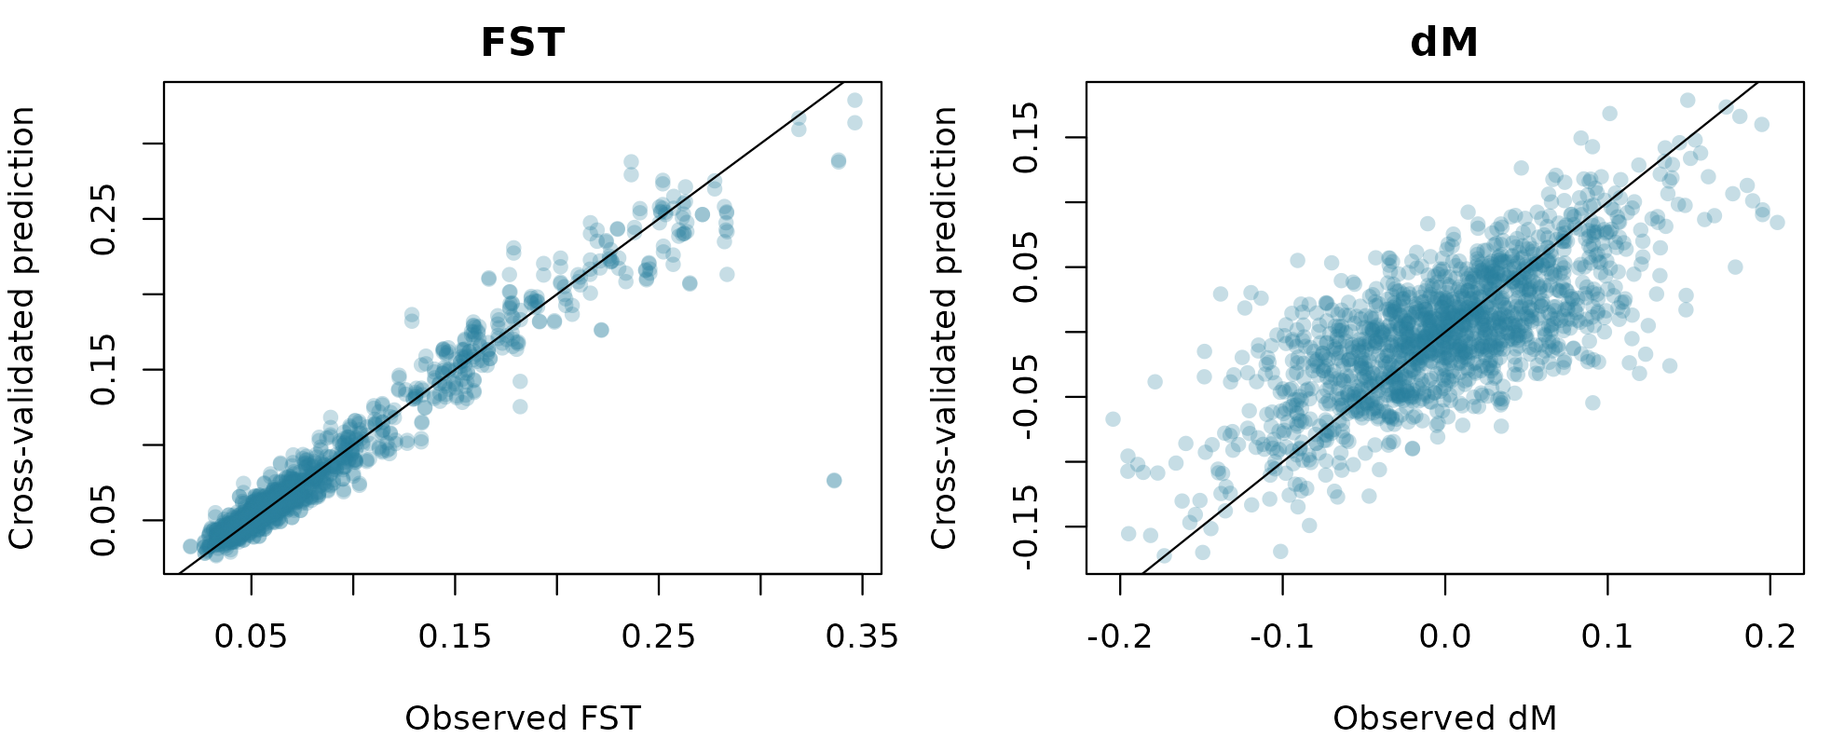
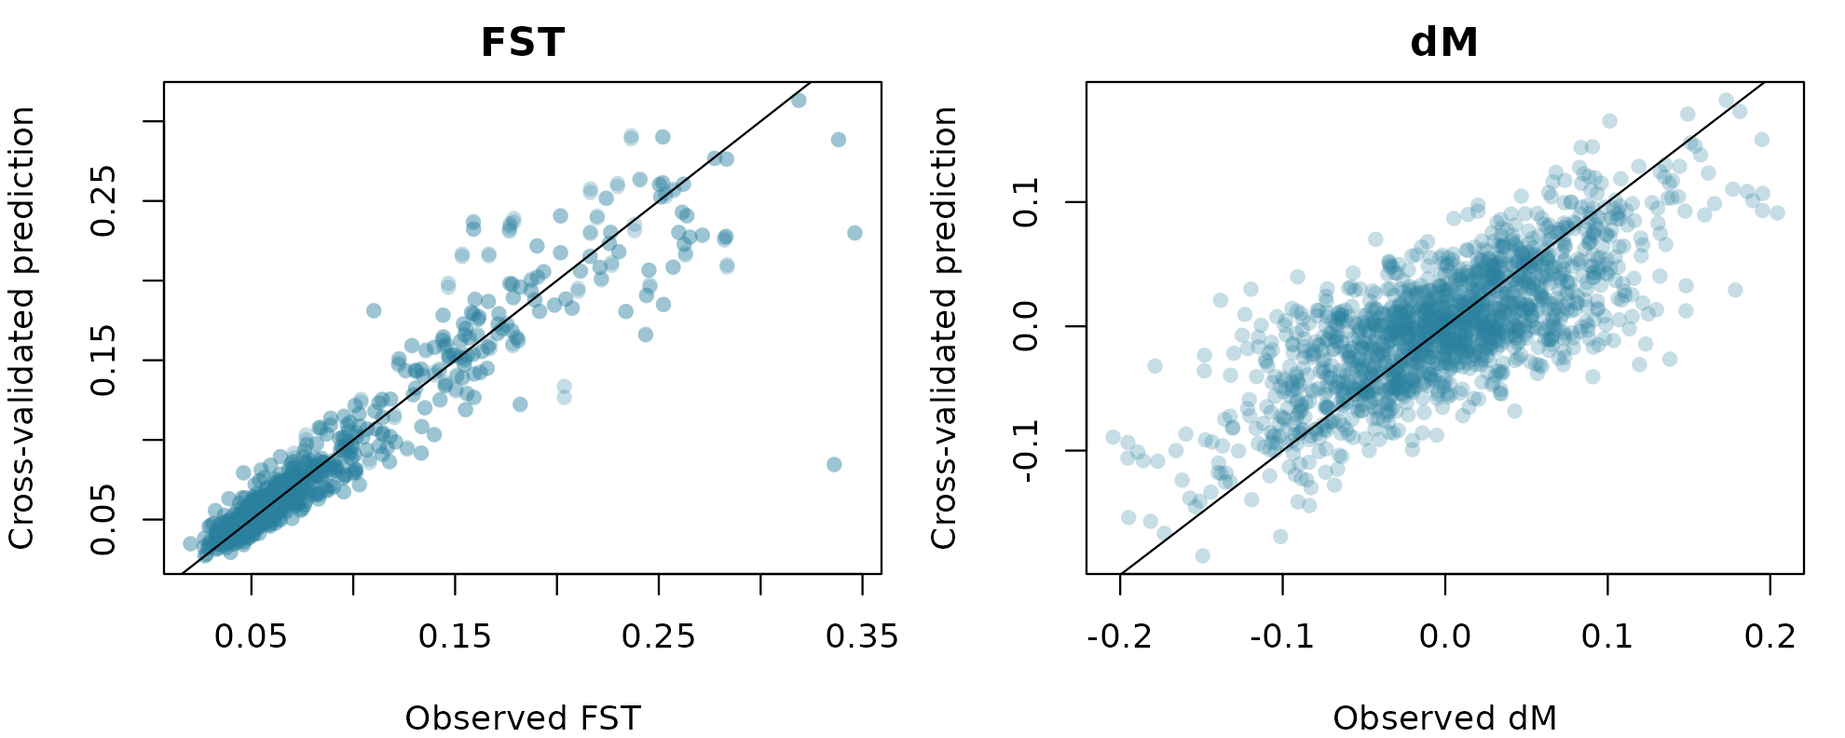
Deploying to gh-pages from @ paulmaier/corridoR@a5872bb9ea24ba461de3bca474ab5d63a413450c 🚀

diff --git a/articles/tutorial.html b/articles/tutorial.html
@@ -344,12 +344,12 @@ features by importance, and refits.</p>
 <span><span class="va">m_dm</span> <span class="op">&lt;-</span> <span class="fu"><a href="../reference/fit_connectivity.html">fit_connectivity</a></span><span class="op">(</span><span class="va">now</span>, <span class="va">y</span><span class="op">$</span><span class="va">dM</span>, <span class="va">model_groups</span>, committees <span class="op">=</span> <span class="fu"><a href="https://rdrr.io/r/base/c.html" class="external-link">c</a></span><span class="op">(</span><span class="fl">1</span>, <span class="fl">10</span>, <span class="fl">50</span><span class="op">)</span>, neighbors <span class="op">=</span> <span class="fu"><a href="https://rdrr.io/r/base/c.html" class="external-link">c</a></span><span class="op">(</span><span class="fl">0</span>, <span class="fl">5</span><span class="op">)</span><span class="op">)</span></span>
 <span><span class="va">m_fst</span></span>
 <span><span class="co">#&gt; &lt;corridor_model&gt; Cubist, 50 committees, 5 neighbors</span></span>
-<span><span class="co">#&gt;   12 features after PCA and VIF filtering; CV RMSE 0.01421, R2 0.940</span></span>
+<span><span class="co">#&gt;   12 features after PCA and VIF filtering; CV RMSE 0.01811, R2 0.902</span></span>
 <span><span class="co">#&gt;   most important: climate_PC2 (100), climate_PC1 (94), path_length (68), slope (66), climate_PC3 (52)</span></span>
 <span><span class="va">m_dm</span></span>
-<span><span class="co">#&gt; &lt;corridor_model&gt; Cubist, 50 committees, 5 neighbors</span></span>
-<span><span class="co">#&gt;   12 features after PCA and VIF filtering; CV RMSE 0.04393, R2 0.521</span></span>
-<span><span class="co">#&gt;   most important: moisture.at (100), climate.at_PC2 (67), forest.at (50), climate.at_PC3 (42), climate_PC2 (41)</span></span></code></pre></div>
+<span><span class="co">#&gt; &lt;corridor_model&gt; Cubist, 10 committees, 5 neighbors</span></span>
+<span><span class="co">#&gt;   12 features after PCA and VIF filtering; CV RMSE 0.04336, R2 0.532</span></span>
+<span><span class="co">#&gt;   most important: moisture.at (100), climate.at_PC2 (76), climate_PC2 (59), climate.at_PC1 (57), forest.at (55)</span></span></code></pre></div>
 <div class="sourceCode" id="cb16"><pre class="downlit sourceCode r">
 <code class="sourceCode R"><span><span class="va">op</span> <span class="op">&lt;-</span> <span class="fu"><a href="https://rdrr.io/r/graphics/par.html" class="external-link">par</a></span><span class="op">(</span>mfrow <span class="op">=</span> <span class="fu"><a href="https://rdrr.io/r/base/c.html" class="external-link">c</a></span><span class="op">(</span><span class="fl">1</span>, <span class="fl">2</span><span class="op">)</span>, mar <span class="op">=</span> <span class="fu"><a href="https://rdrr.io/r/base/c.html" class="external-link">c</a></span><span class="op">(</span><span class="fl">4</span>, <span class="fl">4</span>, <span class="fl">2</span>, <span class="fl">1</span><span class="op">)</span><span class="op">)</span></span>
 <span><span class="fu"><a href="https://rspatial.github.io/terra/reference/plot.html" class="external-link">plot</a></span><span class="op">(</span><span class="va">m_fst</span><span class="op">$</span><span class="va">observed</span>, <span class="va">m_fst</span><span class="op">$</span><span class="va">cv_pred</span>, pch <span class="op">=</span> <span class="fl">16</span>, col <span class="op">=</span> <span class="st">"#2a7f9e44"</span>, xlab <span class="op">=</span> <span class="st">"Observed FST"</span>,</span>
@@ -382,12 +382,12 @@ PCA loadings and predicts each pair now and under warming.</p>
 <span>                     dM <span class="op">=</span> <span class="fu"><a href="https://rspatial.github.io/terra/reference/predict.html" class="external-link">predict</a></span><span class="op">(</span><span class="va">m_dm</span>, <span class="va">future</span><span class="op">)</span> <span class="op">-</span> <span class="fu"><a href="https://rspatial.github.io/terra/reference/predict.html" class="external-link">predict</a></span><span class="op">(</span><span class="va">m_dm</span>, <span class="va">now</span><span class="op">)</span><span class="op">)</span></span>
 <span><span class="fu"><a href="https://rspatial.github.io/terra/reference/summary.html" class="external-link">summary</a></span><span class="op">(</span><span class="va">change</span><span class="op">[</span>, <span class="fu"><a href="https://rdrr.io/r/base/c.html" class="external-link">c</a></span><span class="op">(</span><span class="st">"fst"</span>, <span class="st">"dM"</span><span class="op">)</span><span class="op">]</span><span class="op">)</span></span>
 <span><span class="co">#&gt;       fst                  dM            </span></span>
-<span><span class="co">#&gt;  Min.   :-0.224821   Min.   :-3.781e-01  </span></span>
-<span><span class="co">#&gt;  1st Qu.:-0.008467   1st Qu.:-4.532e-02  </span></span>
-<span><span class="co">#&gt;  Median : 0.031226   Median : 7.864e-05  </span></span>
-<span><span class="co">#&gt;  Mean   : 0.024150   Mean   :-1.032e-04  </span></span>
-<span><span class="co">#&gt;  3rd Qu.: 0.054055   3rd Qu.: 4.481e-02  </span></span>
-<span><span class="co">#&gt;  Max.   : 0.216369   Max.   : 3.611e-01</span></span></code></pre></div>
+<span><span class="co">#&gt;  Min.   :-0.224821   Min.   :-0.3607034  </span></span>
+<span><span class="co">#&gt;  1st Qu.:-0.008467   1st Qu.:-0.0462446  </span></span>
+<span><span class="co">#&gt;  Median : 0.031226   Median : 0.0003446  </span></span>
+<span><span class="co">#&gt;  Mean   : 0.024150   Mean   : 0.0030933  </span></span>
+<span><span class="co">#&gt;  3rd Qu.: 0.054055   3rd Qu.: 0.0455147  </span></span>
+<span><span class="co">#&gt;  Max.   : 0.216369   Max.   : 0.4056813</span></span></code></pre></div>
 <p><code><a href="../reference/map_pairwise.html">map_pairwise()</a></code> spreads each pair’s change over its
 corridor and averages overlapping corridors. For dM it also sums
 direction vectors, each pointing from source to destination and weighted
@@ -454,9 +454,8 @@ need time rather than memory.</li>
 Landscape genetics of a sub-alpine toad: climate change predicted to
 induce upward range shifts via asymmetrical migration corridors.
 <em>Heredity</em> 129:257-272. <a href="https://doi.org/10.1038/s41437-022-00561-x" class="external-link uri">https://doi.org/10.1038/s41437-022-00561-x</a></p>
-<p>Maier PA (2027) corridoR: Migration corridors and genetic range
-shifts from landscape genetic data. <em>Journal of Open Source
-Software</em> (in preparation).</p>
+<p>Maier PA (2027) corridoR: an R package for forecasting genetic range
+shifts along migration corridors. Manuscript in preparation.</p>
 </div>
 <div class="section level2">
 <h2 id="other-references">Other references<a class="anchor" aria-label="anchor" href="#other-references"></a>

diff --git a/reference/select_bandwidth.html b/reference/select_bandwidth.html
@@ -91,7 +91,8 @@ columns <code>from</code>, <code>to</code> and the features, as returned by
 
 
 <dt id="arg-folds">folds<a class="anchor" aria-label="anchor" href="#arg-folds"></a></dt>
-<dd><p>Number of cross-validation folds.</p></dd>
+<dd><p>Number of cross-validation folds. Both directions of a pair
+(rows A to B and B to A) always fall in the same fold.</p></dd>
 
 
 <dt id="arg-num-trees">num.trees<a class="anchor" aria-label="anchor" href="#arg-num-trees"></a></dt>
@@ -121,8 +122,9 @@ group.</p>
 <span class="r-in"><span><span class="co"># the response better</span></span></span>
 <span class="r-in"><span><span class="fu"><a href="https://rdrr.io/r/base/Random.html" class="external-link">set.seed</a></span><span class="op">(</span><span class="fl">1</span><span class="op">)</span></span></span>
 <span class="r-in"><span><span class="va">n</span> <span class="op">&lt;-</span> <span class="fl">150</span></span></span>
-<span class="r-in"><span><span class="va">wide</span> <span class="op">&lt;-</span> <span class="fu"><a href="https://rdrr.io/r/base/data.frame.html" class="external-link">data.frame</a></span><span class="op">(</span>from <span class="op">=</span> <span class="st">"a"</span>, to <span class="op">=</span> <span class="st">"b"</span>, snow <span class="op">=</span> <span class="fu"><a href="https://rdrr.io/r/stats/Normal.html" class="external-link">rnorm</a></span><span class="op">(</span><span class="va">n</span><span class="op">)</span>, slope <span class="op">=</span> <span class="fu"><a href="https://rdrr.io/r/stats/Normal.html" class="external-link">rnorm</a></span><span class="op">(</span><span class="va">n</span><span class="op">)</span><span class="op">)</span></span></span>
-<span class="r-in"><span><span class="va">narrow</span> <span class="op">&lt;-</span> <span class="fu"><a href="https://rdrr.io/r/base/data.frame.html" class="external-link">data.frame</a></span><span class="op">(</span>from <span class="op">=</span> <span class="st">"a"</span>, to <span class="op">=</span> <span class="st">"b"</span>, snow <span class="op">=</span> <span class="va">wide</span><span class="op">$</span><span class="va">snow</span> <span class="op">+</span> <span class="fu"><a href="https://rdrr.io/r/stats/Normal.html" class="external-link">rnorm</a></span><span class="op">(</span><span class="va">n</span><span class="op">)</span>, slope <span class="op">=</span> <span class="fu"><a href="https://rdrr.io/r/stats/Normal.html" class="external-link">rnorm</a></span><span class="op">(</span><span class="va">n</span><span class="op">)</span><span class="op">)</span></span></span>
+<span class="r-in"><span><span class="va">ids</span> <span class="op">&lt;-</span> <span class="fu"><a href="https://rdrr.io/r/base/data.frame.html" class="external-link">data.frame</a></span><span class="op">(</span>from <span class="op">=</span> <span class="fu"><a href="https://rdrr.io/r/base/paste.html" class="external-link">paste0</a></span><span class="op">(</span><span class="st">"s"</span>, <span class="fl">1</span><span class="op">:</span><span class="va">n</span><span class="op">)</span>, to <span class="op">=</span> <span class="fu"><a href="https://rdrr.io/r/base/paste.html" class="external-link">paste0</a></span><span class="op">(</span><span class="st">"t"</span>, <span class="fl">1</span><span class="op">:</span><span class="va">n</span><span class="op">)</span><span class="op">)</span></span></span>
+<span class="r-in"><span><span class="va">wide</span> <span class="op">&lt;-</span> <span class="fu"><a href="https://rdrr.io/r/base/data.frame.html" class="external-link">data.frame</a></span><span class="op">(</span><span class="va">ids</span>, snow <span class="op">=</span> <span class="fu"><a href="https://rdrr.io/r/stats/Normal.html" class="external-link">rnorm</a></span><span class="op">(</span><span class="va">n</span><span class="op">)</span>, slope <span class="op">=</span> <span class="fu"><a href="https://rdrr.io/r/stats/Normal.html" class="external-link">rnorm</a></span><span class="op">(</span><span class="va">n</span><span class="op">)</span><span class="op">)</span></span></span>
+<span class="r-in"><span><span class="va">narrow</span> <span class="op">&lt;-</span> <span class="fu"><a href="https://rdrr.io/r/base/data.frame.html" class="external-link">data.frame</a></span><span class="op">(</span><span class="va">ids</span>, snow <span class="op">=</span> <span class="va">wide</span><span class="op">$</span><span class="va">snow</span> <span class="op">+</span> <span class="fu"><a href="https://rdrr.io/r/stats/Normal.html" class="external-link">rnorm</a></span><span class="op">(</span><span class="va">n</span><span class="op">)</span>, slope <span class="op">=</span> <span class="fu"><a href="https://rdrr.io/r/stats/Normal.html" class="external-link">rnorm</a></span><span class="op">(</span><span class="va">n</span><span class="op">)</span><span class="op">)</span></span></span>
 <span class="r-in"><span><span class="va">fst</span> <span class="op">&lt;-</span> <span class="fl">0.1</span> <span class="op">-</span> <span class="fl">0.03</span> <span class="op">*</span> <span class="va">wide</span><span class="op">$</span><span class="va">snow</span> <span class="op">+</span> <span class="fu"><a href="https://rdrr.io/r/stats/Normal.html" class="external-link">rnorm</a></span><span class="op">(</span><span class="va">n</span>, sd <span class="op">=</span> <span class="fl">0.01</span><span class="op">)</span></span></span>
 <span class="r-in"><span><span class="va">sel</span> <span class="op">&lt;-</span> <span class="fu">select_bandwidth</span><span class="op">(</span><span class="fu"><a href="https://rdrr.io/r/base/list.html" class="external-link">list</a></span><span class="op">(</span>narrow <span class="op">=</span> <span class="va">narrow</span>, wide <span class="op">=</span> <span class="va">wide</span><span class="op">)</span>, <span class="va">fst</span>,</span></span>
 <span class="r-in"><span>                        groups <span class="op">=</span> <span class="fu"><a href="https://rdrr.io/r/base/list.html" class="external-link">list</a></span><span class="op">(</span>climate <span class="op">=</span> <span class="st">"snow"</span>, terrain <span class="op">=</span> <span class="st">"slope"</span><span class="op">)</span>,</span></span>

diff --git a/articles/corridoR.html b/articles/corridoR.html
@@ -125,7 +125,7 @@ the lineage effect added. Then a Cubist model of dM:</p>
 <span><span class="va">m</span> <span class="op">&lt;-</span> <span class="fu"><a href="../reference/fit_connectivity.html">fit_connectivity</a></span><span class="op">(</span><span class="va">now</span>, <span class="va">y</span>, <span class="va">groups</span>, committees <span class="op">=</span> <span class="fu"><a href="https://rdrr.io/r/base/c.html" class="external-link">c</a></span><span class="op">(</span><span class="fl">1</span>, <span class="fl">20</span><span class="op">)</span>, neighbors <span class="op">=</span> <span class="fu"><a href="https://rdrr.io/r/base/c.html" class="external-link">c</a></span><span class="op">(</span><span class="fl">0</span>, <span class="fl">5</span><span class="op">)</span>, folds <span class="op">=</span> <span class="fl">5</span><span class="op">)</span></span>
 <span><span class="va">m</span></span>
 <span><span class="co">#&gt; &lt;corridor_model&gt; Cubist, 20 committees, 5 neighbors</span></span>
-<span><span class="co">#&gt;   14 features after PCA and VIF filtering; CV RMSE 0.04485, R2 0.483</span></span>
+<span><span class="co">#&gt;   14 features after PCA and VIF filtering; CV RMSE 0.04485, R2 0.485</span></span>
 <span><span class="co">#&gt;   most important: moisture.at (100), climate.at_PC2 (72), climate.at_PC1 (71), climate.at_PC3 (42), moisture (39)</span></span></code></pre></div>
 <p><strong>6. Forecast.</strong> Predict under warming and map the
 change onto the corridors:</p>
@@ -147,9 +147,8 @@ nearby pairs this version is coarser than the full tutorial.</p>
 Landscape genetics of a sub-alpine toad: climate change predicted to
 induce upward range shifts via asymmetrical migration corridors.
 <em>Heredity</em> 129:257-272. <a href="https://doi.org/10.1038/s41437-022-00561-x" class="external-link uri">https://doi.org/10.1038/s41437-022-00561-x</a></p>
-<p>Maier PA (2027) corridoR: Migration corridors and genetic range
-shifts from landscape genetic data. <em>Journal of Open Source
-Software</em> (in preparation).</p>
+<p>Maier PA (2027) corridoR: an R package for forecasting genetic range
+shifts along migration corridors. Manuscript in preparation.</p>
 </div>
   </main>
 </div>

diff --git a/news/index.html b/news/index.html
@@ -39,7 +39,9 @@
 
     <div class="section level2">
 <h2 class="pkg-version" data-toc-text="development version" id="corridor-development-version">corridoR (development version)<a class="anchor" aria-label="anchor" href="#corridor-development-version"></a></h2>
-</div>
+<ul><li>
+<code><a href="../reference/fit_connectivity.html">fit_connectivity()</a></code> and <code><a href="../reference/select_bandwidth.html">select_bandwidth()</a></code> now keep both directions of a pair (A to B and B to A) in the same cross-validation fold. Before, a pair could be predicted from its own reverse, which inflated cross-validated R2 and could favor overfit settings.</li>
+</ul></div>
     <div class="section level2">
 <h2 class="pkg-version" data-toc-text="0.1.0" id="corridor-010">corridoR 0.1.0<a class="anchor" aria-label="anchor" href="#corridor-010"></a></h2>
 <ul><li>First release: genotype readers (STRUCTURE, GENEPOP, VCF, GenAlEx, FSTAT, PLINK, adegenet and vcfR objects), pairwise FST and directional GST, least cost paths and corridors, weighted environmental extraction, per-group bandwidth selection, Cubist models of connectivity, and maps of projected change in magnitude and net direction. Includes a simulated example landscape.</li>

diff --git a/authors.html b/authors.html
@@ -59,13 +59,12 @@
   pages = {257--272},
   doi = {10.1038/s41437-022-00561-x},
 }</pre>
-      <p>Maier PA (2027) corridoR: Migration corridors and genetic range shifts from landscape genetic data. Journal of Open Source Software (in preparation).</p>
-      <pre>@Article{,
-  title = {corridoR: Migration corridors and genetic range shifts from landscape genetic data},
+      <p>Maier PA (2027) corridoR: an R package for forecasting genetic range shifts along migration corridors. Manuscript in preparation.</p>
+      <pre>@Unpublished{,
+  title = {corridoR: an R package for forecasting genetic range shifts along migration corridors},
   author = {Paul A. Maier},
-  journal = {Journal of Open Source Software},
   year = {2027},
-  note = {In preparation. The volume, pages and DOI will be added here on publication.},
+  note = {Manuscript in preparation. The journal, volume, pages and DOI will be added here on publication.},
 }</pre>
     </div>
 

diff --git a/index.html b/index.html
@@ -168,7 +168,7 @@
 <p>Maier PA, Vandergast AG, Ostoja SM, Aguilar A, Bohonak AJ (2022) Landscape genetics of a sub-alpine toad: climate change predicted to induce upward range shifts via asymmetrical migration corridors. <em>Heredity</em> 129:257-272. <a href="https://doi.org/10.1038/s41437-022-00561-x" class="external-link uri">https://doi.org/10.1038/s41437-022-00561-x</a></p>
 </blockquote>
 <blockquote>
-<p>Maier PA (2027) corridoR: Migration corridors and genetic range shifts from landscape genetic data. <em>Journal of Open Source Software</em> (in preparation).</p>
+<p>Maier PA (2027) corridoR: an R package for forecasting genetic range shifts along migration corridors. Manuscript in preparation.</p>
 </blockquote>
 <p>The first introduced the method; the second describes the package. <code>citation("corridoR")</code> prints both.</p>
 </div>

diff --git a/reference/fit_connectivity.html b/reference/fit_connectivity.html
@@ -100,7 +100,9 @@ as they are and always kept.</p></dd>
 
 
 <dt id="arg-folds">folds<a class="anchor" aria-label="anchor" href="#arg-folds"></a></dt>
-<dd><p>Number of cross-validation folds.</p></dd>
+<dd><p>Number of cross-validation folds. When <code>data</code> has <code>from</code> and
+<code>to</code> columns, both directions of a pair always fall in the same fold, so
+a pair is never used to predict its own reverse.</p></dd>
 
 
 <dt id="arg-vif-threshold">vif_threshold<a class="anchor" aria-label="anchor" href="#arg-vif-threshold"></a></dt>

diff --git a/articles/tutorial.md b/articles/tutorial.md
@@ -336,12 +336,12 @@ m_fst <- fit_connectivity(now, y$fst, model_groups, committees = c(1, 10, 50), n
 m_dm <- fit_connectivity(now, y$dM, model_groups, committees = c(1, 10, 50), neighbors = c(0, 5))
 m_fst
 #> <corridor_model> Cubist, 50 committees, 5 neighbors
-#>   12 features after PCA and VIF filtering; CV RMSE 0.01421, R2 0.940
+#>   12 features after PCA and VIF filtering; CV RMSE 0.01811, R2 0.902
 #>   most important: climate_PC2 (100), climate_PC1 (94), path_length (68), slope (66), climate_PC3 (52)
 m_dm
-#> <corridor_model> Cubist, 50 committees, 5 neighbors
-#>   12 features after PCA and VIF filtering; CV RMSE 0.04393, R2 0.521
-#>   most important: moisture.at (100), climate.at_PC2 (67), forest.at (50), climate.at_PC3 (42), climate_PC2 (41)
+#> <corridor_model> Cubist, 10 committees, 5 neighbors
+#>   12 features after PCA and VIF filtering; CV RMSE 0.04336, R2 0.532
+#>   most important: moisture.at (100), climate.at_PC2 (76), climate_PC2 (59), climate.at_PC1 (57), forest.at (55)
 ```
 
 ``` r
@@ -392,12 +392,12 @@ change <- data.frame(from = now$from, to = now$to,
                      dM = predict(m_dm, future) - predict(m_dm, now))
 summary(change[, c("fst", "dM")])
 #>       fst                  dM            
-#>  Min.   :-0.224821   Min.   :-3.781e-01  
-#>  1st Qu.:-0.008467   1st Qu.:-4.532e-02  
-#>  Median : 0.031226   Median : 7.864e-05  
-#>  Mean   : 0.024150   Mean   :-1.032e-04  
-#>  3rd Qu.: 0.054055   3rd Qu.: 4.481e-02  
-#>  Max.   : 0.216369   Max.   : 3.611e-01
+#>  Min.   :-0.224821   Min.   :-0.3607034  
+#>  1st Qu.:-0.008467   1st Qu.:-0.0462446  
+#>  Median : 0.031226   Median : 0.0003446  
+#>  Mean   : 0.024150   Mean   : 0.0030933  
+#>  3rd Qu.: 0.054055   3rd Qu.: 0.0455147  
+#>  Max.   : 0.216369   Max.   : 0.4056813
 ```
 
 [`map_pairwise()`](https://paulmaier.github.io/corridoR/reference/map_pairwise.md)
@@ -472,9 +472,8 @@ Landscape genetics of a sub-alpine toad: climate change predicted to
 induce upward range shifts via asymmetrical migration corridors.
 *Heredity* 129:257-272. <https://doi.org/10.1038/s41437-022-00561-x>
 
-Maier PA (2027) corridoR: Migration corridors and genetic range shifts
-from landscape genetic data. *Journal of Open Source Software* (in
-preparation).
+Maier PA (2027) corridoR: an R package for forecasting genetic range
+shifts along migration corridors. Manuscript in preparation.
 
 ## Other references
 

diff --git a/articles/corridoR.md b/articles/corridoR.md
@@ -77,7 +77,7 @@ groups <- list(climate = c("snowpack", "runoff", "summer_temp"),
 m <- fit_connectivity(now, y, groups, committees = c(1, 20), neighbors = c(0, 5), folds = 5)
 m
 #> <corridor_model> Cubist, 20 committees, 5 neighbors
-#>   14 features after PCA and VIF filtering; CV RMSE 0.04485, R2 0.483
+#>   14 features after PCA and VIF filtering; CV RMSE 0.04485, R2 0.485
 #>   most important: moisture.at (100), climate.at_PC2 (72), climate.at_PC1 (71), climate.at_PC3 (42), moisture (39)
 ```
 
@@ -108,6 +108,5 @@ Landscape genetics of a sub-alpine toad: climate change predicted to
 induce upward range shifts via asymmetrical migration corridors.
 *Heredity* 129:257-272. <https://doi.org/10.1038/s41437-022-00561-x>
 
-Maier PA (2027) corridoR: Migration corridors and genetic range shifts
-from landscape genetic data. *Journal of Open Source Software* (in
-preparation).
+Maier PA (2027) corridoR: an R package for forecasting genetic range
+shifts along migration corridors. Manuscript in preparation.

diff --git a/authors.md b/authors.md
@@ -25,14 +25,12 @@ Heredity 129:257-272. https://doi.org/10.1038/s41437-022-00561-x
       doi = {10.1038/s41437-022-00561-x},
     }
 
-Maier PA (2027) corridoR: Migration corridors and genetic range shifts
-from landscape genetic data. Journal of Open Source Software (in
-preparation).
+Maier PA (2027) corridoR: an R package for forecasting genetic range
+shifts along migration corridors. Manuscript in preparation.
 
-    @Article{,
-      title = {corridoR: Migration corridors and genetic range shifts from landscape genetic data},
+    @Unpublished{,
+      title = {corridoR: an R package for forecasting genetic range shifts along migration corridors},
       author = {Paul A. Maier},
-      journal = {Journal of Open Source Software},
       year = {2027},
-      note = {In preparation. The volume, pages and DOI will be added here on publication.},
+      note = {Manuscript in preparation. The journal, volume, pages and DOI will be added here on publication.},
     }

diff --git a/reference/select_bandwidth.md b/reference/select_bandwidth.md
@@ -45,7 +45,8 @@ select_bandwidth(
 
 - folds:
 
-  Number of cross-validation folds.
+  Number of cross-validation folds. Both directions of a pair (rows A to
+  B and B to A) always fall in the same fold.
 
 - num.trees:
 
@@ -73,8 +74,9 @@ attribute `best`: a named vector of the chosen bandwidth per group.
 # the response better
 set.seed(1)
 n <- 150
-wide <- data.frame(from = "a", to = "b", snow = rnorm(n), slope = rnorm(n))
-narrow <- data.frame(from = "a", to = "b", snow = wide$snow + rnorm(n), slope = rnorm(n))
+ids <- data.frame(from = paste0("s", 1:n), to = paste0("t", 1:n))
+wide <- data.frame(ids, snow = rnorm(n), slope = rnorm(n))
+narrow <- data.frame(ids, snow = wide$snow + rnorm(n), slope = rnorm(n))
 fst <- 0.1 - 0.03 * wide$snow + rnorm(n, sd = 0.01)
 sel <- select_bandwidth(list(narrow = narrow, wide = wide), fst,
                         groups = list(climate = "snow", terrain = "slope"),

diff --git a/index.md b/index.md
@@ -92,9 +92,8 @@ If you use corridoR, **please cite both papers**:
 > induce upward range shifts via asymmetrical migration corridors.
 > *Heredity* 129:257-272. <https://doi.org/10.1038/s41437-022-00561-x>
 
-> Maier PA (2027) corridoR: Migration corridors and genetic range shifts
-> from landscape genetic data. *Journal of Open Source Software* (in
-> preparation).
+> Maier PA (2027) corridoR: an R package for forecasting genetic range
+> shifts along migration corridors. Manuscript in preparation.
 
 The first introduced the method; the second describes the package.
 `citation("corridoR")` prints both.
